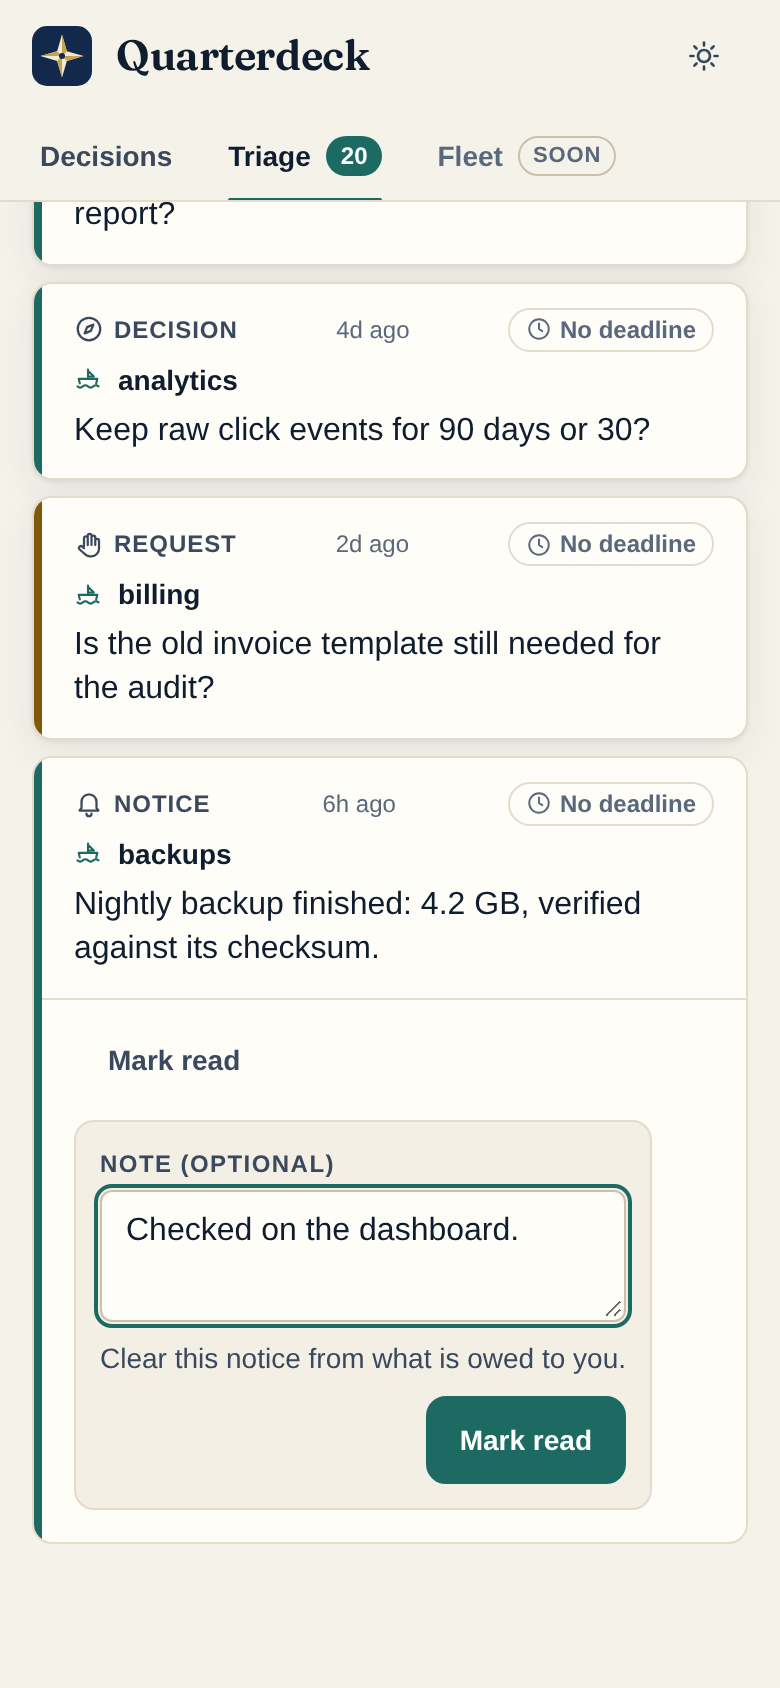
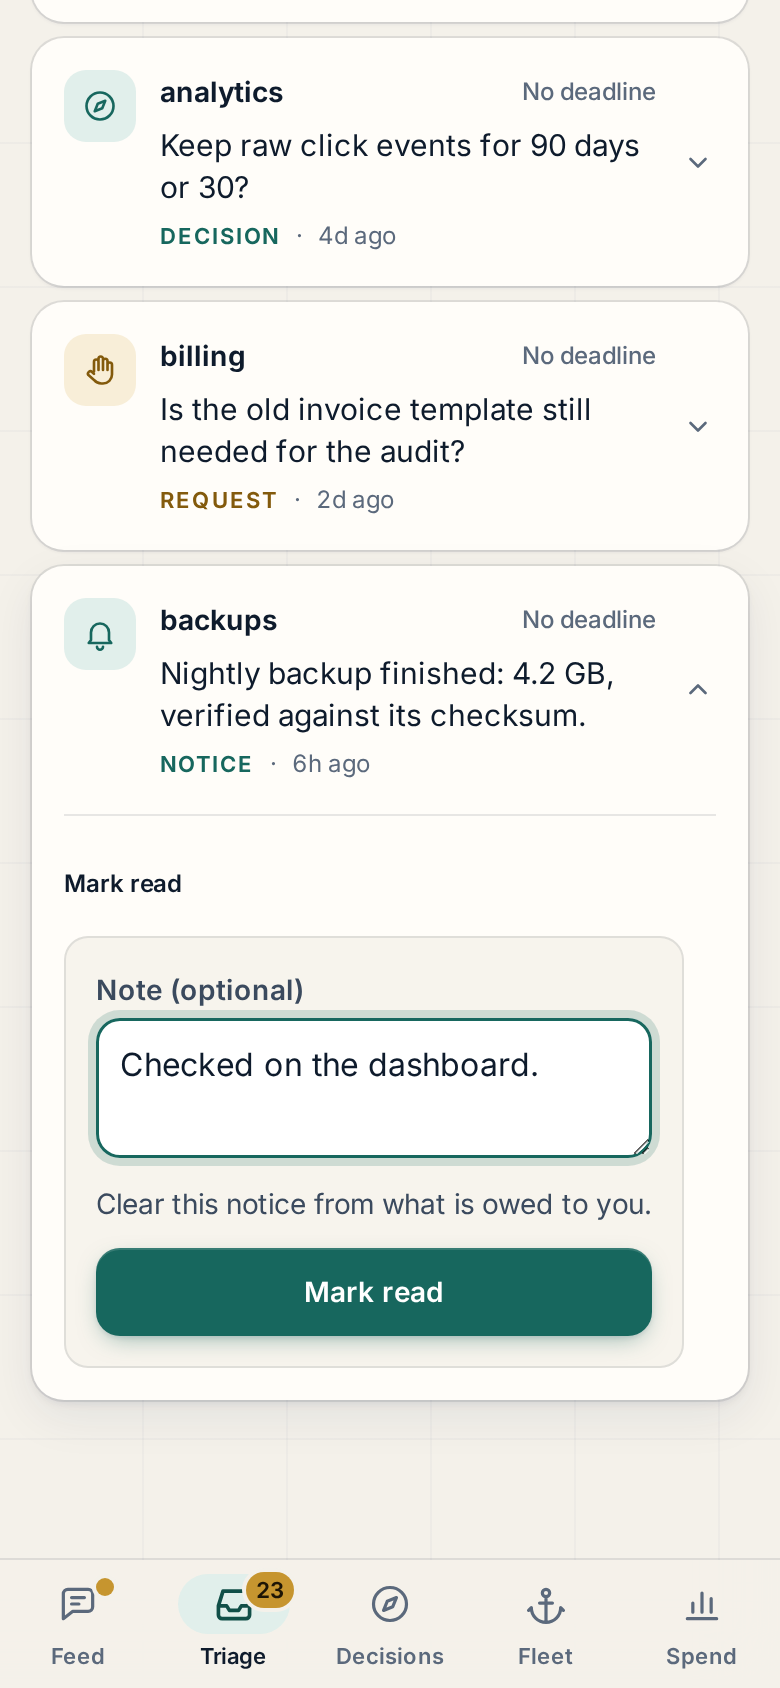
Blur the phone tab bar for real, and line up open Feed cards
The minifier folded backdrop-filter and its -webkit- twin into the
prefixed form only, which Chrome ignores, so the tab bar never blurred
and card text showed through it. Keep the standard property alone (the
build adds the prefix) and make the bar a little more opaque.

Open notices in the Feed now share the asks' inset, so a stack of open
cards lines up past the brass edge. Every screenshot is regenerated.

diff --git a/src/app.css b/src/app.css
@@ -22,7 +22,7 @@
 	--surface-2: light-dark(#f7f4ed, #0c1724);
 	--surface-raised: light-dark(#ffffff, #142336);
 	--well: light-dark(#efebe1, #060e17);
-	--chrome: light-dark(rgb(244 241 234 / 0.86), rgb(8 18 29 / 0.82));
+	--chrome: light-dark(rgb(244 241 234 / 0.95), rgb(8 18 29 / 0.94));
 
 	/* Lines: hairlines carry most of the structure, so they are quiet */
 	--line: light-dark(rgb(15 29 46 / 0.1), rgb(196 214 235 / 0.1));

diff --git a/src/routes/+layout.svelte b/src/routes/+layout.svelte
@@ -244,7 +244,6 @@
 		padding-bottom: env(safe-area-inset-bottom);
 		background: var(--chrome);
 		backdrop-filter: saturate(1.6) blur(18px);
-		-webkit-backdrop-filter: saturate(1.6) blur(18px);
 		box-shadow: 0 -1px 0 var(--line);
 	}
 	nav ul {
@@ -351,7 +350,6 @@
 			padding: 0;
 			background: none;
 			backdrop-filter: none;
-			-webkit-backdrop-filter: none;
 			box-shadow: none;
 		}
 		nav ul {

diff --git a/src/lib/components/FeedMessage.svelte b/src/lib/components/FeedMessage.svelte
@@ -391,6 +391,8 @@
 			var(--elev-2);
 		border-bottom-left-radius: var(--radius-lg);
 	}
+	/* Open cards share one inset, so a stack of them lines up past the brass edge. */
+	.msg.open .bubble,
 	.bubble.ask {
 		gap: var(--s-3);
 		padding: var(--s-4) var(--s-4) var(--s-4) var(--s-5);
